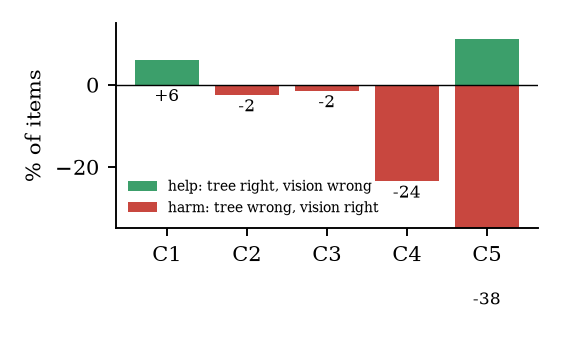
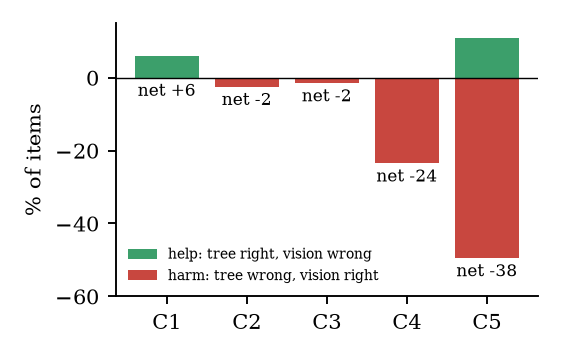
Tweet headline figure: the three policies on the same 250 items; fix clipped help/harm chart

diff --git a/scripts/paper_numbers.py b/scripts/paper_numbers.py
@@ -238,10 +238,10 @@ def figures(n):
     ax.bar(conds, h, color="#3c9f6b", label="help: tree right, vision wrong")
     ax.bar(conds, k, color="#c8473f", label="harm: tree wrong, vision right")
     for i, c in enumerate(conds):
-        ax.text(i, min(k[i], 0) - 4, f"{n['test_a'][c]['fallback_minus_vision']:+.0f}", ha="center", fontsize=7)
+        ax.text(i, min(k[i], 0) - 5, f"net {n['test_a'][c]['fallback_minus_vision']:+.0f}", ha="center", fontsize=7)
     ax.axhline(0, c="black", lw=0.6)
     ax.set_ylabel("% of items")
-    ax.set_ylim(-35, 15)
+    ax.set_ylim(-60, 15)
     ax.legend(fontsize=6, frameon=False, loc="lower left")
     save(fig, "test_a_help_harm")
 
@@ -281,12 +281,59 @@ def figures(n):
     save(fig, "screenspot_v2")
 
 
+def same_items():
+    """The three policies on the SAME 250 items (first 50 test pages): tree first else vision, vision
+    alone, and llm_named -- the headline comparison, with nothing mixed across subsets."""
+    llm = {r["id"]: r for r in jl(ROOT / "runs/tree_llm_test.jsonl")}
+    scored = {r["id"]: r for r in json.load(open(ROOT / "runs/hub/compare-v1/scored.json"))}
+    vis = {r["example_id"]: r["hit"] for r in jl(ROOT / "runs/hub/compare-v1/results/step-01179.jsonl")}
+    ids = sorted(llm)
+    named = {i: (llm[i]["hit"] if llm[i]["ref"] and (llm[i]["name"] or "").strip() else vis[i]) for i in ids}
+    out = {"n": len(ids), "fallback": pct(sum(scored[i]["hits"]["fallback"] for i in ids), len(ids)),
+           "vision": pct(sum(vis[i] for i in ids), len(ids)), "llm_named": pct(sum(named.values()), len(ids))}
+    return out
+
+
+def tweet_figure(n):
+    import matplotlib
+
+    matplotlib.use("Agg")
+    import matplotlib.pyplot as plt
+
+    plt.rcParams.update({"font.family": "sans-serif", "font.size": 15, "axes.spines.top": False,
+                         "axes.spines.right": False, "axes.spines.left": False})
+    fig, axes = plt.subplots(1, 2, figsize=(12, 5.6), gridspec_kw={"width_ratios": [3, 2]})
+    s = n["same_items"]
+    b = n["test_b"]["test_held_out_app/nameless"]["accuracy"]
+    panels = [(axes[0], [s["fallback"], s["vision"], s["llm_named"]],
+               ["tree first,\nelse vision", "vision alone\n(our 2B grounder)", "our gate\n(named tree pick,\nelse vision)"],
+               ["#c8473f", "#2b5fab", "#3c9f6b"], f"Generated apps, 5 kinds of target (n={s['n']})"),
+              (axes[1], [b["fallback"], b["vlm"]], ["tree first,\nelse vision", "vision alone"],
+               ["#c8473f", "#2b5fab"], "Real Windows apps, target missing\nfrom the tree (n=790)")]
+    for ax, vals, labels, colors, title in panels:
+        bars = ax.bar(range(len(vals)), vals, color=colors, width=0.62)
+        for bar, v in zip(bars, vals):
+            ax.text(bar.get_x() + bar.get_width() / 2, v + 1.5, f"{v:.0f}%", ha="center", fontsize=18, fontweight="bold")
+        ax.set_xticks(range(len(vals)), labels, fontsize=13)
+        ax.set_ylim(0, 100)
+        ax.set_yticks([])
+        ax.set_title(title, fontsize=14, color="#444")
+    fig.suptitle("Click accuracy. Trusting the accessibility tree first makes an agent WORSE than vision alone.",
+                 fontsize=16, fontweight="bold", y=0.99)
+    fig.tight_layout(rect=(0, 0, 1, 0.93))
+    fig.savefig(FIG / "tweet_headline.png", dpi=150)
+    plt.close(fig)
+
+
 def main():
     n = {"test_a": test_a(), "test_b": test_b(), "gate_audit": gate_audit(), "grounder": grounder(),
-         "screenspot_v2": screenspot(), "uia_exposure": exposure(), "learning_curve": LEARNING_CURVE}
+         "screenspot_v2": screenspot(), "uia_exposure": exposure(), "learning_curve": LEARNING_CURVE,
+         "same_items": same_items()}
     OUT.mkdir(parents=True, exist_ok=True)
     (OUT / "numbers.json").write_text(json.dumps(n, indent=1), encoding="utf-8")
     figures(n)
+    tweet_figure(n)
+    print("same 250 items:", n["same_items"])
     for c in ("C1", "C2", "C3", "C4", "C5", "all"):
         print("A", c, {k: v for k, v in n["test_a"][c].items() if k != "accuracy"})
     for k, v in n["test_b"].items():
